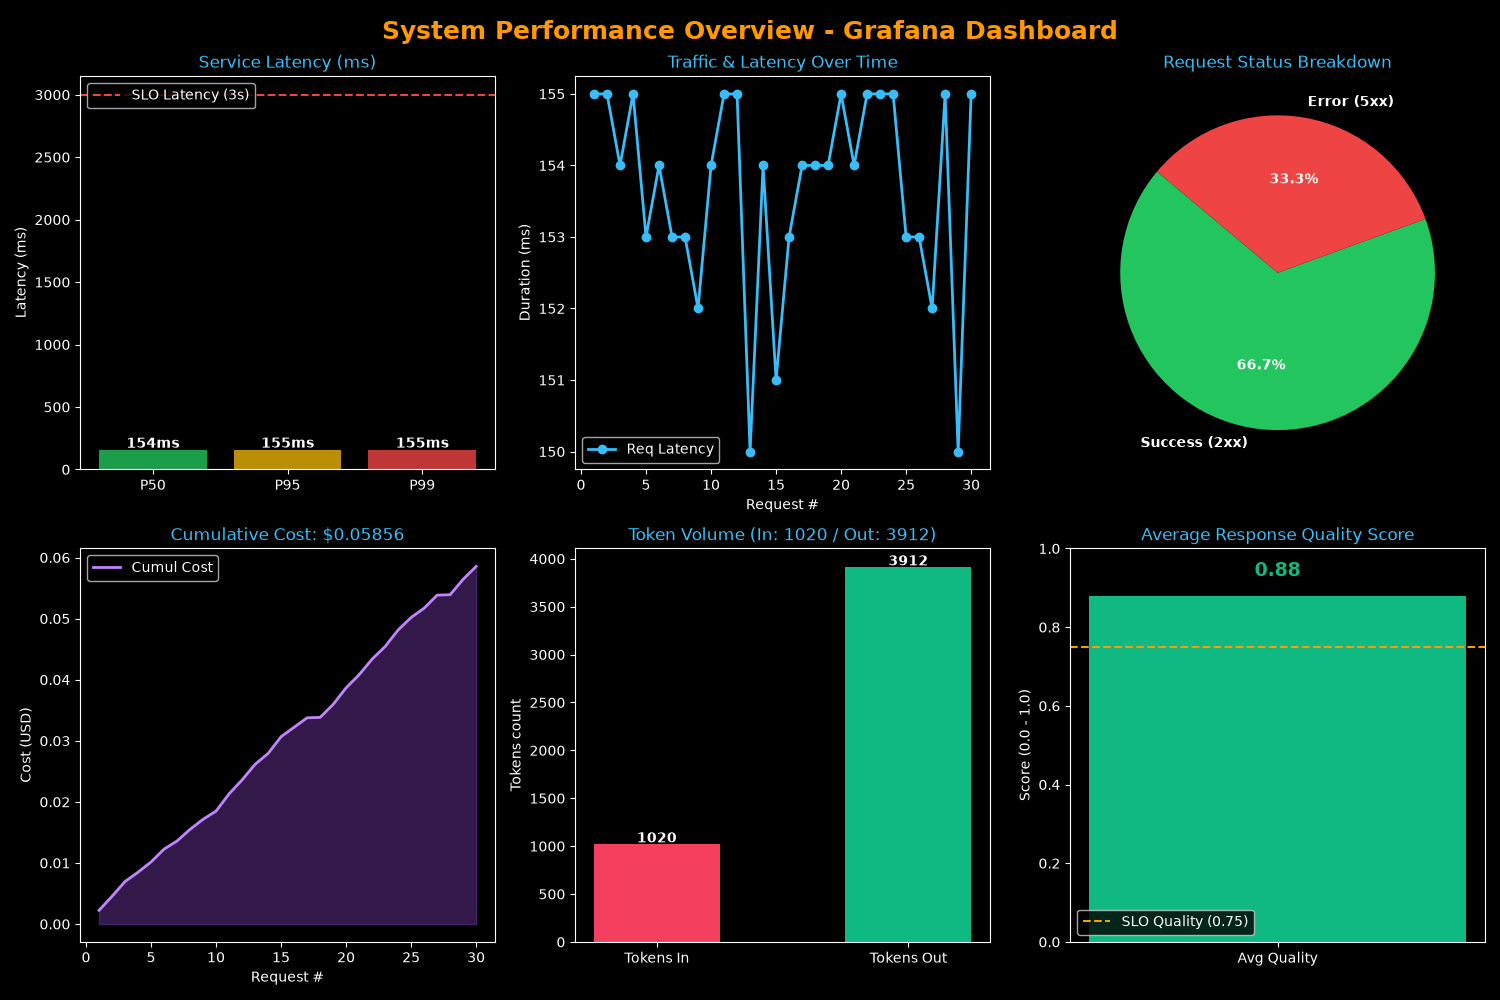
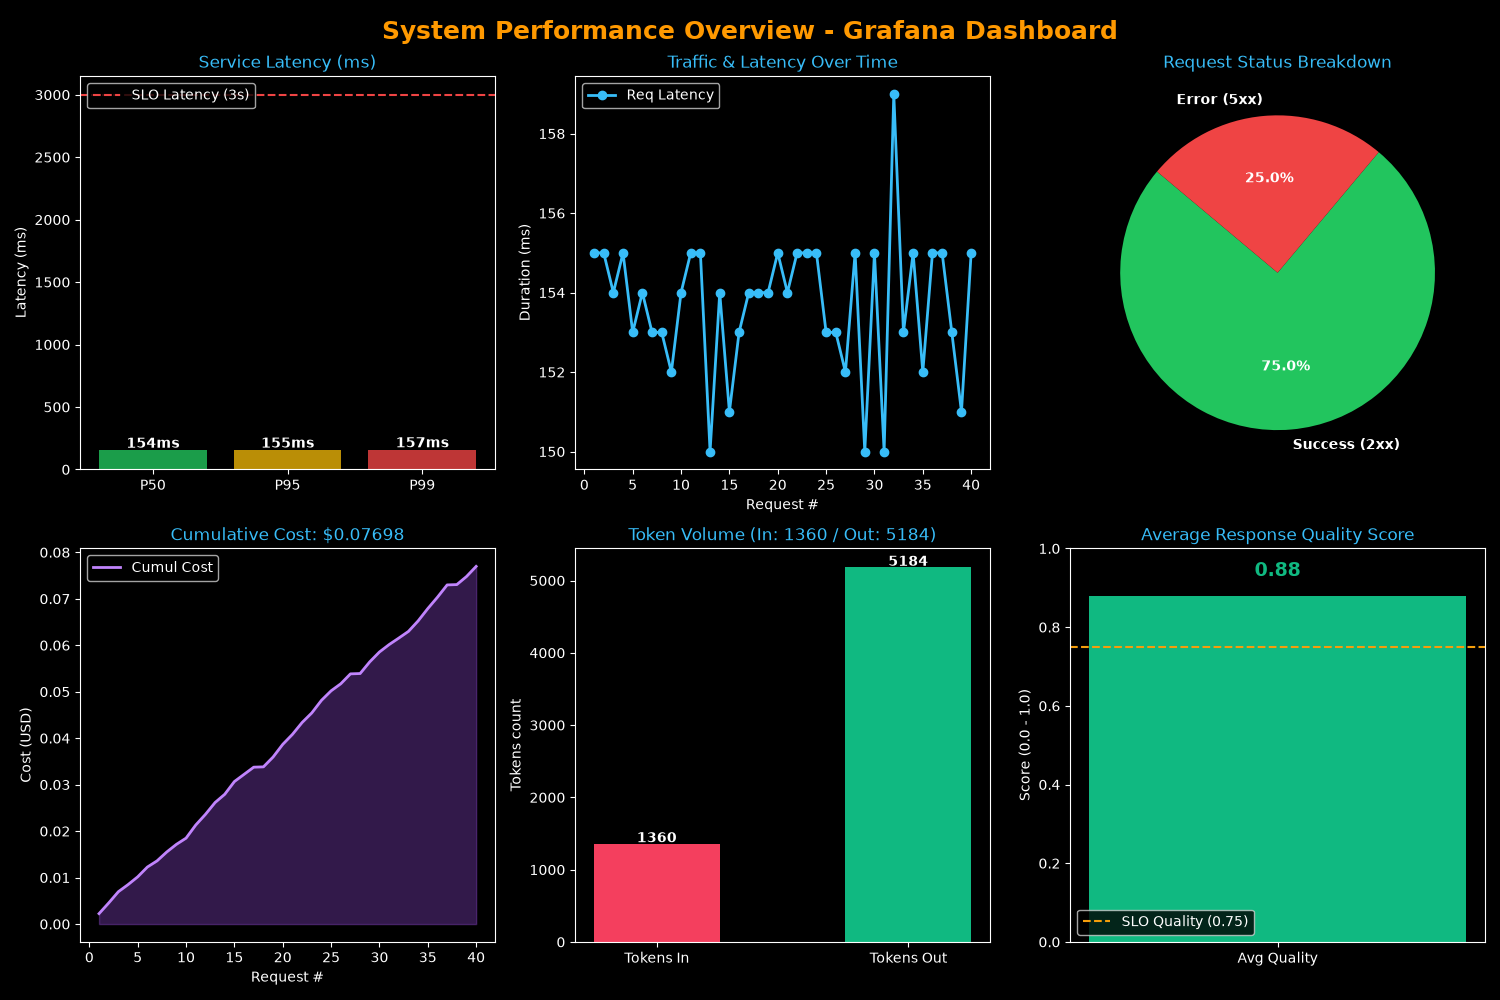
feat: call load_dotenv() in app/main.py to enable real Langfuse tracing at startup

diff --git a/app/main.py b/app/main.py
@@ -1,6 +1,9 @@
 from __future__ import annotations
 
 import os
+from dotenv import load_dotenv
+
+load_dotenv()
 
 from fastapi import FastAPI, HTTPException, Request
 from fastapi.responses import JSONResponse